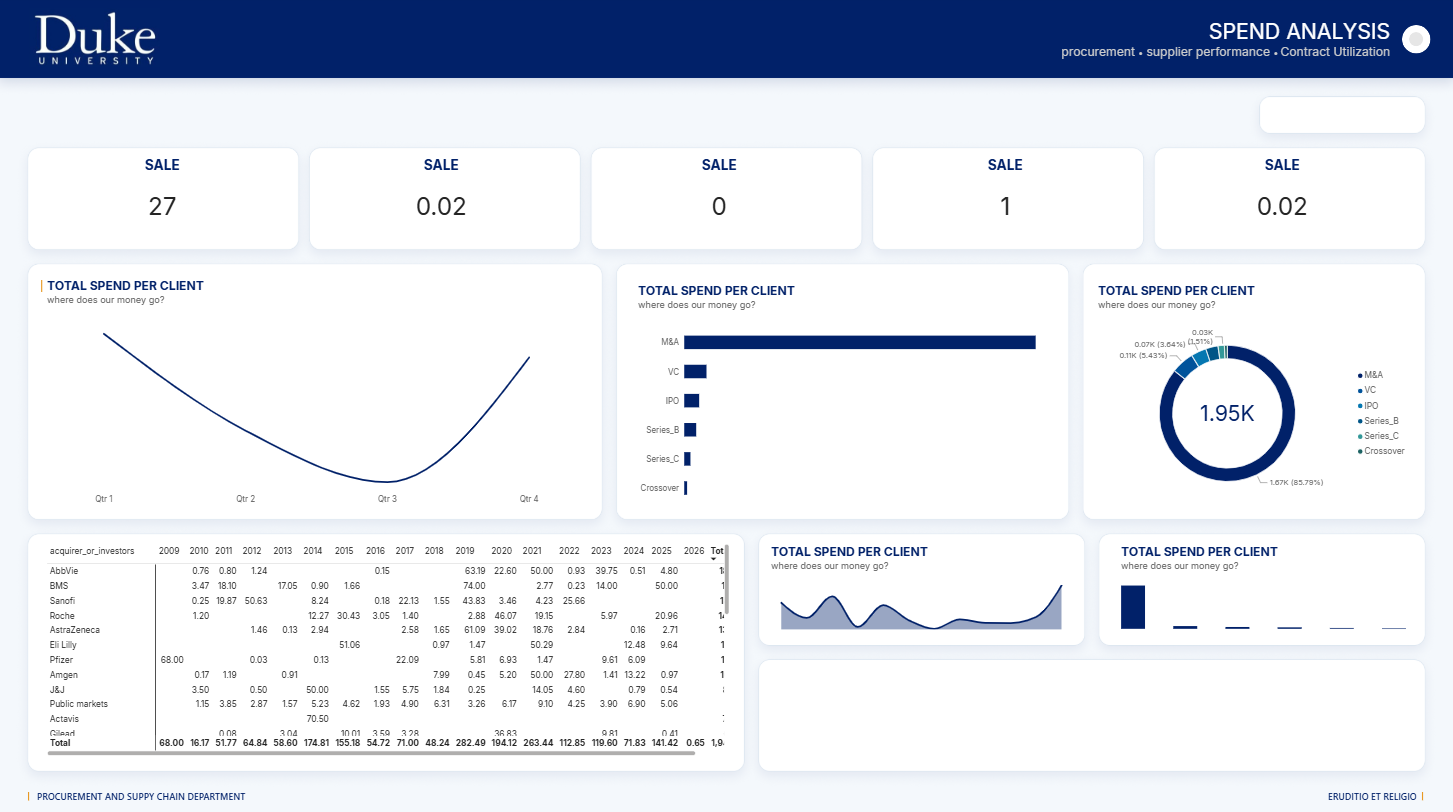
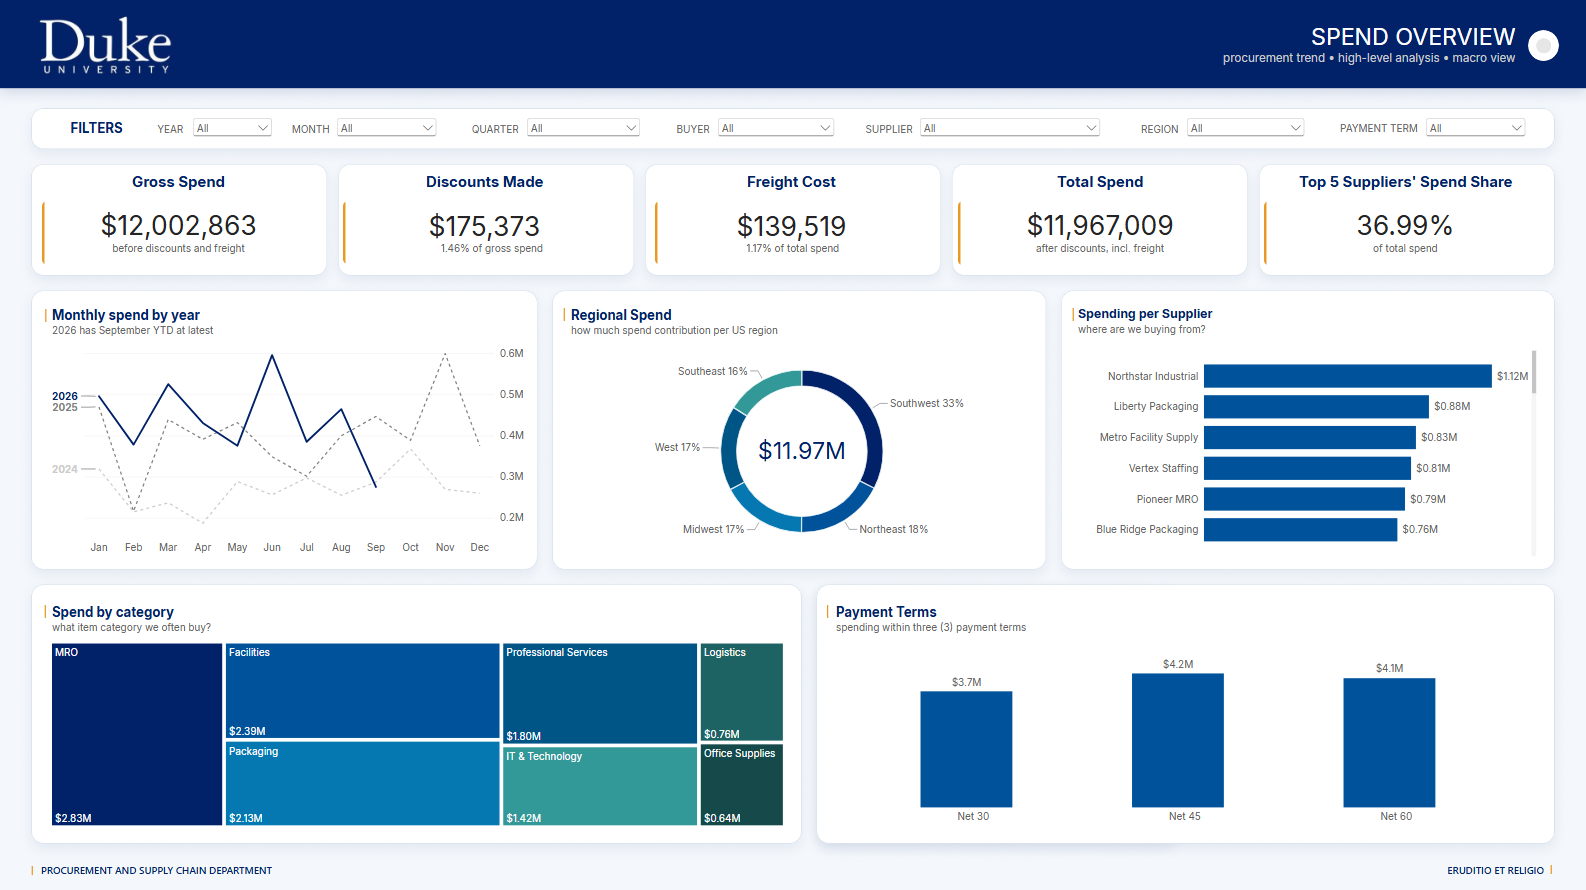
added 4 new png for dashboard 2

diff --git a/index.html b/index.html
@@ -146,17 +146,22 @@
           <span class="viz-tag">Static previews</span>
           <div class="dashboard-carousel" data-carousel data-screenshots="3">
             <button class="carousel-arrow carousel-prev" type="button" aria-label="Previous screenshot" hidden>&lsaquo;</button>
-            <img class="viz-image" src="dashboard 1 images/dashboard-01-01.png" alt="Golden Wok Delivery Analysis Power BI report screenshot 1" onerror="this.src='dashboard 1 images/dashboard-01-01.png'; this.onerror=null;">
+            <img class="viz-image" src="dashboard 1 images/dashboard-01-01.png" alt="Golden Wok Delivery Analysis Power BI report screenshot 1">
+            <div class="dashboard-image-placeholder" role="status" hidden>
+              <strong>Preview coming soon</strong>
+              <span>This dashboard screenshot is being updated.</span>
+            </div>
             <button class="carousel-arrow carousel-next" type="button" aria-label="Next screenshot" hidden>&rsaquo;</button>
             <button class="dashboard-expand" type="button" aria-label="Enlarge Golden Wok Delivery Analysis dashboard screenshot" title="Enlarge screenshot">
               <svg viewBox="0 0 24 24" aria-hidden="true"><path d="M8 3H3v5M16 3h5v5M21 16v5h-5M8 21H3v-5"/></svg>
             </button>
+            <nav class="dashboard-card-pagination" aria-label="Dashboard screenshots"></nav>
           </div>
         </div>
         <div class="project-body">
           <h3>Golden Wok Delivery Analysis</h3>
           <p>Executive-facing Power BI dashboard analyzing revenue, cost, profit, delivery performance, and operational trends, with dynamic insights across key business dimensions.</p>
-          <div class="project-tags"><span>DAX</span><span>HTML/CSS</span><span>Python</span></div>
+          <div class="project-tags"><span>DAX</span><span>HTML/CSS</span><span>Python</span><span>SQL</span></div>
           <a class="project-link" href="https://app.powerbi.com/reportEmbed?reportId=bcc2a660-709d-4211-bbe5-2beb1060d9e2&autoAuth=true&ctid=b7909d6d-d7bc-4f74-b540-a0b4aa2cd540" target="_blank" rel="noopener">View live report <span class="arrow">→</span></a>
         </div>
       </article>
@@ -165,19 +170,24 @@
       <article class="project-card">
         <div class="viz-frame">
           <span class="viz-tag">Static previews</span>
-          <div class="dashboard-carousel" data-carousel data-screenshots="1">
+          <div class="dashboard-carousel" data-carousel data-screenshots="4">
             <button class="carousel-arrow carousel-prev" type="button" aria-label="Previous screenshot" hidden>&lsaquo;</button>
             <img class="viz-image" src="dashboard 2 images/dashboard-02-01.png" alt="Customer Churn Early-Warning Power BI report screenshot 1">
+            <div class="dashboard-image-placeholder" role="status" hidden>
+              <strong>Preview coming soon</strong>
+              <span>This dashboard screenshot is being updated.</span>
+            </div>
             <button class="carousel-arrow carousel-next" type="button" aria-label="Next screenshot" hidden>&rsaquo;</button>
             <button class="dashboard-expand" type="button" aria-label="Enlarge Customer Churn Early-Warning dashboard screenshot" title="Enlarge screenshot">
               <svg viewBox="0 0 24 24" aria-hidden="true"><path d="M8 3H3v5M16 3h5v5M21 16v5h-5M8 21H3v-5"/></svg>
             </button>
+            <nav class="dashboard-card-pagination" aria-label="Dashboard screenshots"></nav>
           </div>
         </div>
         <div class="project-body">
-          <h3>Customer Churn Early-Warning</h3>
-          <p>Predictive scoring model surfaced in Power BI so account managers can see at-risk accounts before renewal, cutting churn 0.4pts QoQ.</p>
-          <div class="project-tags"><span>Power BI</span><span>Python</span><span>dbt</span></div>
+          <h3>2-Day Duke University interview project</h3>
+          <p>A high-level procurement analytics dashboard highlighting spend trends, supplier performance, and contract utilization.</p>
+          <div class="project-tags"><span>CSV</span><span>DAX</span><span>Power Query</span></div>
           <a class="project-link" href="https://app.powerbi.com/view?r=eyJrIjoiMzllMDVmNmEtYTZjMi00NjU0LThhMGUtY2ZmZjg1ZGQ0ZjJmIiwidCI6ImI3OTA5ZDZkLWQ3YmMtNGY3NC1iNTQwLWEwYjRhYTJjZDU0MCIsImMiOjEwfQ%3D%3D" target="_blank" rel="noopener">View live report <span class="arrow">→</span></a>
         </div>
       </article>
@@ -188,17 +198,22 @@
           <span class="viz-tag">Static previews</span>
           <div class="dashboard-carousel" data-carousel data-screenshots="1">
             <button class="carousel-arrow carousel-prev" type="button" aria-label="Previous screenshot" hidden>&lsaquo;</button>
-            <img class="viz-image" src="dashboard 1 images/dashboard-03-01.png" alt="Supply Chain Cost Tracker Power BI report screenshot 1" onerror="this.src='dashboard 1 images/dashboard-01-01.png'; this.onerror=null;">
+            <img class="viz-image" src="dashboard 3 images/dashboard-03-01.png" alt="Supply Chain Cost Tracker Power BI report screenshot 1">
+            <div class="dashboard-image-placeholder" role="status" hidden>
+              <strong>Preview coming soon</strong>
+              <span>This dashboard screenshot is being updated.</span>
+            </div>
             <button class="carousel-arrow carousel-next" type="button" aria-label="Next screenshot" hidden>&rsaquo;</button>
             <button class="dashboard-expand" type="button" aria-label="Enlarge Supply Chain Cost Tracker dashboard screenshot" title="Enlarge screenshot">
               <svg viewBox="0 0 24 24" aria-hidden="true"><path d="M8 3H3v5M16 3h5v5M21 16v5h-5M8 21H3v-5"/></svg>
             </button>
+            <nav class="dashboard-card-pagination" aria-label="Dashboard screenshots"></nav>
           </div>
         </div>
         <div class="project-body">
-          <h3>Supply Chain Cost Tracker</h3>
-          <p>Consolidated 4 spreadsheet-based reports into one automated pipeline, saving the ops team ~12 hours of manual reporting a week.</p>
-          <div class="project-tags"><span>Power Query</span><span>Azure Data Factory</span></div>
+          <h3>Organization Wide Summary</h3>
+          <p>A consolidated view of organization-wide performance, covering delivery health, critical metrics, financials, resourcing, workforce, AI adoption, and client value.</p>
+          <div class="project-tags"><span>DAX</span><span>SQL</span><span>Power Query</span><span>Excel</span></div>
           <a class="project-link" href="#contact">Discuss this project <span class="arrow">→</span></a>
         </div>
       </article>
@@ -209,17 +224,21 @@
           <span class="viz-tag">Static previews</span>
           <div class="dashboard-carousel" data-carousel data-screenshots="1">
             <button class="carousel-arrow carousel-prev" type="button" aria-label="Previous screenshot" hidden>&lsaquo;</button>
-            <img class="viz-image" src="dashboard 1 images/dashboard-04-01.png" alt="Marketing Attribution Model Power BI report screenshot 1" onerror="this.src='dashboard 1 images/dashboard-01-01.png'; this.onerror=null;">
+            <img class="viz-image" src="dashboard 4 images/dashboard-04-01.png" alt="Marketing Attribution Model Power BI report screenshot 1">
+            <div class="dashboard-image-placeholder" role="status" hidden>
+              <strong>Preview coming soon</strong>
+              <span>This dashboard screenshot is being updated.</span>
+            </div>
             <button class="carousel-arrow carousel-next" type="button" aria-label="Next screenshot" hidden>&rsaquo;</button>
             <button class="dashboard-expand" type="button" aria-label="Enlarge Marketing Attribution Model dashboard screenshot" title="Enlarge screenshot">
               <svg viewBox="0 0 24 24" aria-hidden="true"><path d="M8 3H3v5M16 3h5v5M21 16v5h-5M8 21H3v-5"/></svg>
             </button>
+            <nav class="dashboard-card-pagination" aria-label="Dashboard screenshots"></nav>
           </div>
         </div>
         <div class="project-body">
-          <h3>Marketing Attribution Model</h3>
-          <p>Multi-touch attribution dashboard blending ad spend, CRM, and web analytics data to show true channel ROI.</p>
-          <div class="project-tags"><span>Power BI</span><span>SQL</span><span>Google Analytics</span></div>
+          <h3>TBD</h3>
+          <p>TBD</p>
           <a class="project-link" href="#contact">Discuss this project <span class="arrow">→</span></a>
         </div>
       </article>
@@ -438,8 +457,13 @@
     </div>
     <div class="dashboard-modal-viewport" aria-label="Dashboard image. Scroll to zoom, then drag to pan." role="group">
       <img id="dashboard-modal-image" src="" alt="Dashboard screenshot preview">
+      <div class="dashboard-image-placeholder dashboard-modal-image-placeholder" role="status" hidden>
+        <strong>Preview coming soon</strong>
+        <span>This dashboard screenshot is being updated.</span>
+      </div>
     </div>
     <p class="dashboard-modal-hint" role="note">Scroll to zoom · Drag to pan</p>
+    <nav class="dashboard-modal-pagination" aria-label="Dashboard screenshots"></nav>
     <button class="dashboard-modal-arrow dashboard-modal-next" type="button" aria-label="Next screenshot">&rsaquo;</button>
   </div>
 </div>

diff --git a/script.js b/script.js
@@ -15,6 +15,7 @@
 
   const dashboardModal = document.getElementById('dashboard-modal');
   const dashboardModalImage = document.getElementById('dashboard-modal-image');
+  const dashboardModalImagePlaceholder = document.querySelector('.dashboard-modal-image-placeholder');
   const dashboardModalViewport = document.querySelector('.dashboard-modal-viewport');
   const dashboardModalTitle = document.getElementById('dashboard-modal-title');
   const dashboardModalTools = document.querySelector('.dashboard-modal-tools');
@@ -22,7 +23,9 @@
   const dashboardModalClose = document.querySelector('.dashboard-modal-close');
   const dashboardModalPrev = document.querySelector('.dashboard-modal-prev');
   const dashboardModalNext = document.querySelector('.dashboard-modal-next');
+  const dashboardModalPagination = document.querySelector('.dashboard-modal-pagination');
   let activeDashboardNavigate = null;
+  let activeDashboardNavigateTo = null;
   let dashboardModalReturnFocus = null;
   let dashboardZoom = 1;
   let dashboardPanX = 0;
@@ -47,26 +50,47 @@
     dashboardPanY = 0;
     renderDashboardTransform();
   };
+  const updateDashboardPagination = (container, current) => {
+    container?.querySelectorAll('.dashboard-pagination-dot').forEach((dot, index) => {
+      const isCurrent = index + 1 === current;
+      dot.classList.toggle('is-current', isCurrent);
+      dot.setAttribute('aria-current', String(isCurrent));
+    });
+  };
   const closeDashboardModal = () => {
     if (!dashboardModal) return;
     dashboardModal.hidden = true;
     document.body.classList.remove('modal-open');
     dashboardModalReturnFocus?.focus();
     activeDashboardNavigate = null;
+    activeDashboardNavigateTo = null;
+    dashboardModalPagination?.replaceChildren();
     resetDashboardTransform();
   };
 
   window.addEventListener('load', () => {
     document.querySelectorAll('[data-carousel]').forEach((carousel) => {
       const image = carousel.querySelector('.viz-image');
+      const imagePlaceholder = carousel.querySelector('.dashboard-image-placeholder');
       const prev = carousel.querySelector('.carousel-prev');
       const next = carousel.querySelector('.carousel-next');
       const expand = carousel.querySelector('.dashboard-expand');
+      const cardPagination = carousel.querySelector('.dashboard-card-pagination');
       const projectCard = carousel.closest('.project-card');
       const screenshotCount = Number(carousel.dataset.screenshots || '1');
       let showScreenshot = null;
+      let goToScreenshot = null;
+      let currentScreenshot = 1;
 
       if (!image) return;
+
+      const setImageAvailability = (available) => {
+        image.hidden = !available;
+        if (imagePlaceholder) imagePlaceholder.hidden = available;
+      };
+      image.addEventListener('load', () => setImageAvailability(true));
+      image.addEventListener('error', () => setImageAvailability(false));
+      if (image.complete) setImageAvailability(image.naturalWidth > 0);
 
       if (screenshotCount <= 1) {
         if (prev) prev.hidden = true;
@@ -74,28 +98,50 @@
       } else {
         const prefix = image.getAttribute('src').replace(/-\d{2}\.[^.]+$/, '');
         const extension = image.getAttribute('src').match(/\.[^.]+$/)[0];
-        let current = 1;
-        showScreenshot = (step) => {
-          current = ((current - 1 + step + screenshotCount) % screenshotCount) + 1;
-          image.src = `${prefix}-${String(current).padStart(2, '0')}${extension}`;
-          image.alt = image.alt.replace(/ screenshot \d+$/, ` screenshot ${current}`);
+        goToScreenshot = (screenshot) => {
+          currentScreenshot = screenshot;
+          setImageAvailability(false);
+          image.src = `${prefix}-${String(currentScreenshot).padStart(2, '0')}${extension}`;
+          image.alt = image.alt.replace(/ screenshot \d+$/, ` screenshot ${currentScreenshot}`);
+          updateDashboardPagination(cardPagination, currentScreenshot);
           if (activeDashboardNavigate === showScreenshot && dashboardModalImage) {
+            dashboardModalImage.hidden = true;
+            if (dashboardModalImagePlaceholder) dashboardModalImagePlaceholder.hidden = false;
             dashboardModalImage.src = image.src;
             dashboardModalImage.alt = image.alt;
+            updateDashboardPagination(dashboardModalPagination, currentScreenshot);
             resetDashboardTransform();
           }
+        };
+        showScreenshot = (step) => {
+          goToScreenshot(((currentScreenshot - 1 + step + screenshotCount) % screenshotCount) + 1);
         };
         if (prev) prev.hidden = false;
         if (next) next.hidden = false;
         prev?.addEventListener('click', () => showScreenshot(-1));
         next?.addEventListener('click', () => showScreenshot(1));
       }
+      if (cardPagination) {
+        cardPagination.replaceChildren();
+        for (let screenshot = 1; screenshot <= screenshotCount; screenshot += 1) {
+          const dot = document.createElement('button');
+          dot.className = 'dashboard-pagination-dot';
+          dot.type = 'button';
+          dot.setAttribute('aria-label', `Show screenshot ${screenshot} of ${screenshotCount}`);
+          dot.addEventListener('click', () => goToScreenshot?.(screenshot));
+          cardPagination.append(dot);
+        }
+        updateDashboardPagination(cardPagination, currentScreenshot);
+      }
 
       const openPreview = (trigger) => {
         if (!dashboardModal || !dashboardModalImage) return;
         activeDashboardNavigate = showScreenshot;
+        activeDashboardNavigateTo = goToScreenshot;
         dashboardModalReturnFocus = trigger;
-        dashboardModalImage.src = image.src;
+        dashboardModalImage.hidden = true;
+        if (dashboardModalImagePlaceholder) dashboardModalImagePlaceholder.hidden = false;
+        dashboardModalImage.src = image.currentSrc || image.src;
         dashboardModalImage.alt = image.alt;
         const projectTitle = projectCard?.querySelector('.project-body h3')?.textContent.trim() || image.alt;
         const projectTools = [...(projectCard?.querySelectorAll('.project-tags span') || [])]
@@ -109,6 +155,18 @@
         if (dashboardModalLiveLink) {
           dashboardModalLiveLink.hidden = !reportLink;
           dashboardModalLiveLink.href = reportLink?.href || '';
+        }
+        if (dashboardModalPagination) {
+          dashboardModalPagination.replaceChildren();
+          for (let screenshot = 1; screenshot <= screenshotCount; screenshot += 1) {
+            const dot = document.createElement('button');
+            dot.className = 'dashboard-pagination-dot';
+            dot.type = 'button';
+            dot.setAttribute('aria-label', `Show screenshot ${screenshot} of ${screenshotCount}`);
+            dot.addEventListener('click', () => activeDashboardNavigateTo?.(screenshot));
+            dashboardModalPagination.append(dot);
+          }
+          updateDashboardPagination(dashboardModalPagination, currentScreenshot);
         }
         resetDashboardTransform();
         if (dashboardModalPrev) dashboardModalPrev.hidden = screenshotCount <= 1;
@@ -151,6 +209,14 @@
     }
     dashboardModalPrev?.addEventListener('click', () => activeDashboardNavigate?.(-1));
     dashboardModalNext?.addEventListener('click', () => activeDashboardNavigate?.(1));
+    dashboardModalImage?.addEventListener('load', () => {
+      dashboardModalImage.hidden = false;
+      if (dashboardModalImagePlaceholder) dashboardModalImagePlaceholder.hidden = true;
+    });
+    dashboardModalImage?.addEventListener('error', () => {
+      dashboardModalImage.hidden = true;
+      if (dashboardModalImagePlaceholder) dashboardModalImagePlaceholder.hidden = false;
+    });
     dashboardModalViewport?.addEventListener('wheel', (event) => {
       if (event.deltaY === 0) return;
       event.preventDefault();

diff --git a/styles.css b/styles.css
@@ -542,6 +542,17 @@
   }
   .dashboard-carousel{ position:relative; width:100%; height:100%; }
   .viz-frame .viz-image{ width:100%; height:100%; object-fit:cover; display:block; cursor:zoom-in; }
+  .dashboard-carousel .viz-image[hidden],.dashboard-modal-viewport img[hidden]{ display:none; }
+  .dashboard-image-placeholder{
+   position:absolute; inset:0; display:flex; flex-direction:column;
+   align-items:center; justify-content:center; gap:8px; padding:24px;
+   background:radial-gradient(ellipse at center, rgba(63,196,255,.08), transparent 66%),
+              linear-gradient(160deg, #111b2b, #0a1220);
+   color:var(--text-dim); text-align:center;
+  }
+  .dashboard-image-placeholder[hidden]{ display:none; }
+  .dashboard-image-placeholder strong{ color:var(--text); font-size:1.05rem; }
+  .dashboard-image-placeholder span{ color:var(--text-faint); font-size:.82rem; }
   .dashboard-expand{
     position:absolute; top:12px; right:12px; z-index:2;
     width:38px; height:38px; display:grid; place-items:center; padding:8px;
@@ -552,6 +563,16 @@
     opacity:1; color:var(--blue-bright); background:rgba(6,12,22,.92);
   }
   .dashboard-expand svg{ width:20px; height:20px; fill:none; stroke:currentColor; stroke-width:1.8; stroke-linecap:round; stroke-linejoin:round; }
+  .dashboard-card-pagination{
+   position:absolute; z-index:2; bottom:12px; left:50%; transform:translateX(-50%);
+   display:flex; align-items:center; justify-content:center; gap:8px;
+   padding:6px 10px; border:1px solid rgba(255,255,255,.3); border-radius:999px;
+   background:linear-gradient(145deg, rgba(222,228,234,.42), rgba(191,204,216,.24));
+   box-shadow:0 2px 10px rgba(8,15,24,.14), inset 0 1px rgba(255,255,255,.24);
+   backdrop-filter:blur(12px) saturate(140%); -webkit-backdrop-filter:blur(12px) saturate(140%);
+  }
+  .dashboard-card-pagination:empty{ display:none; }
+  .dashboard-card-pagination .dashboard-pagination-dot{ width:8px; height:8px; }
   .carousel-arrow{
     position:absolute; top:50%; z-index:2; transform:translateY(-50%);
     width:34px; height:34px; border:1px solid var(--blue-dim); border-radius:50%;
@@ -807,12 +828,37 @@
    line-height:1.2; text-align:center; white-space:nowrap; opacity:.88;
    pointer-events:none; backdrop-filter:blur(3px);
   }
+  .dashboard-modal-pagination{
+   display:flex; flex:none; align-self:center; justify-content:center; align-items:center; gap:8px;
+   min-height:24px; padding:0 10px; border:1px solid rgba(255,255,255,.3);
+   border-radius:999px;
+   background:linear-gradient(145deg, rgba(255,255,255,.28), rgba(225,235,245,.12));
+   box-shadow:0 2px 10px rgba(8,15,24,.14), inset 0 1px rgba(255,255,255,.24);
+   backdrop-filter:blur(12px) saturate(140%); -webkit-backdrop-filter:blur(12px) saturate(140%);
+  }
+  .dashboard-pagination-dot{
+   width:9px; height:9px; padding:0; border:1px solid rgba(34,52,66,.56);
+   border-radius:50%; background:rgba(239,245,249,.88); opacity:1; cursor:pointer;
+   box-shadow:0 1px 2px rgba(8,15,24,.24), inset 0 1px rgba(255,255,255,.8);
+   transition:background .2s ease, border-color .2s ease, opacity .2s ease, transform .2s ease;
+  }
+  .dashboard-pagination-dot:hover,.dashboard-pagination-dot:focus-visible{
+   border-color:var(--blue-bright); outline:none; transform:scale(1.2);
+  }
+  .dashboard-pagination-dot.is-current{
+   border-color:#486b7b; background:#66899a;
+   box-shadow:0 0 0 1px rgba(255,255,255,.8), inset 0 1px rgba(255,255,255,.22);
+  }
   .dashboard-modal-viewport.is-zoomed{ cursor:grab; }
   .dashboard-modal-viewport.is-dragging{ cursor:grabbing; }
   .dashboard-modal-viewport img{
    position:absolute; top:50%; left:50%; display:block; width:100%; height:100%;
    object-fit:contain; border-radius:10px; background:rgba(255,255,255,.02);
    transform-origin:center; user-select:none; -webkit-user-drag:none;
+  }
+  .dashboard-modal-image-placeholder{
+   border-radius:10px; background:radial-gradient(ellipse at center, rgba(63,196,255,.1), transparent 66%),
+                       linear-gradient(160deg, #111b2b, #0a1220);
   }
   .dashboard-modal-close,.dashboard-modal-arrow{
    position:absolute; z-index:2; display:grid; place-items:center;
